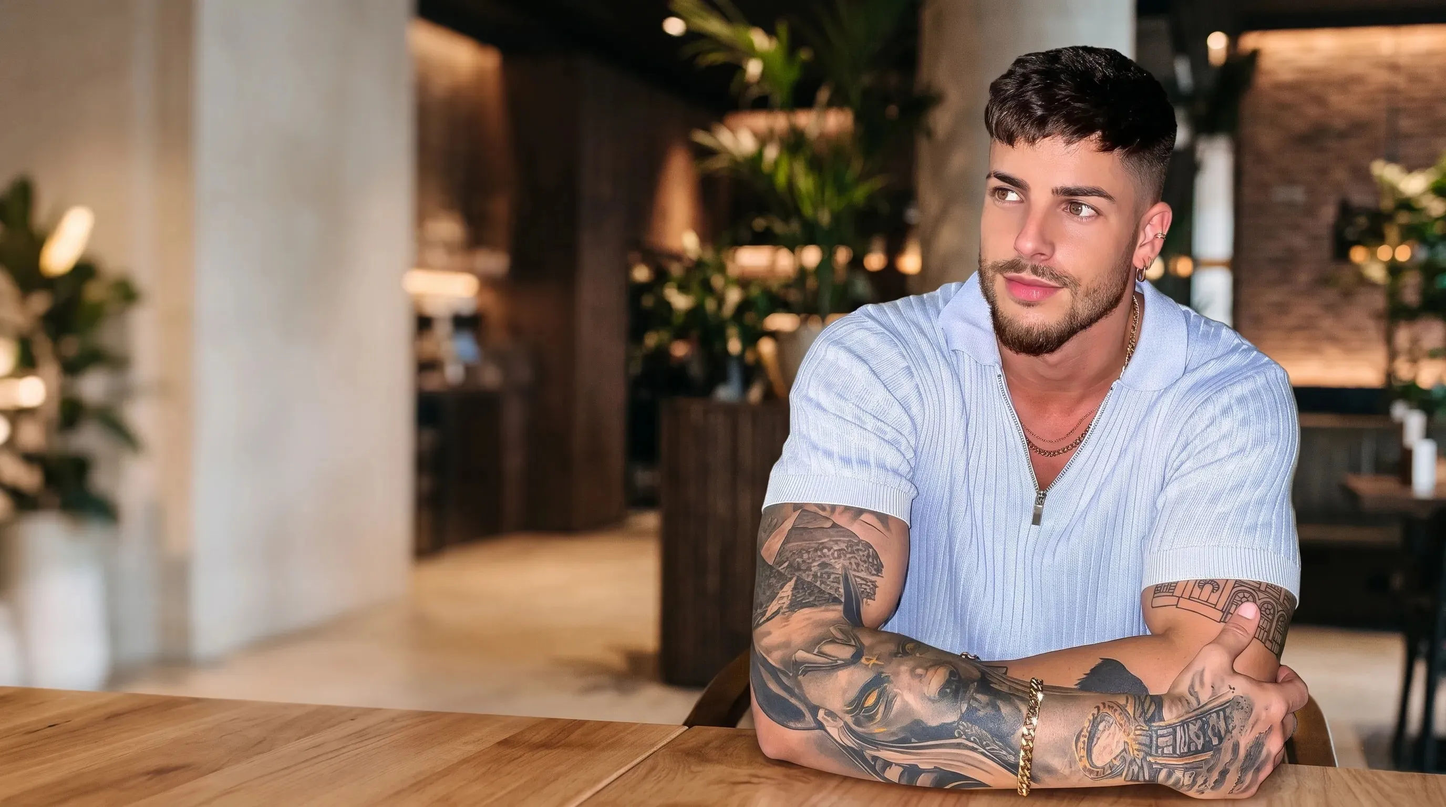
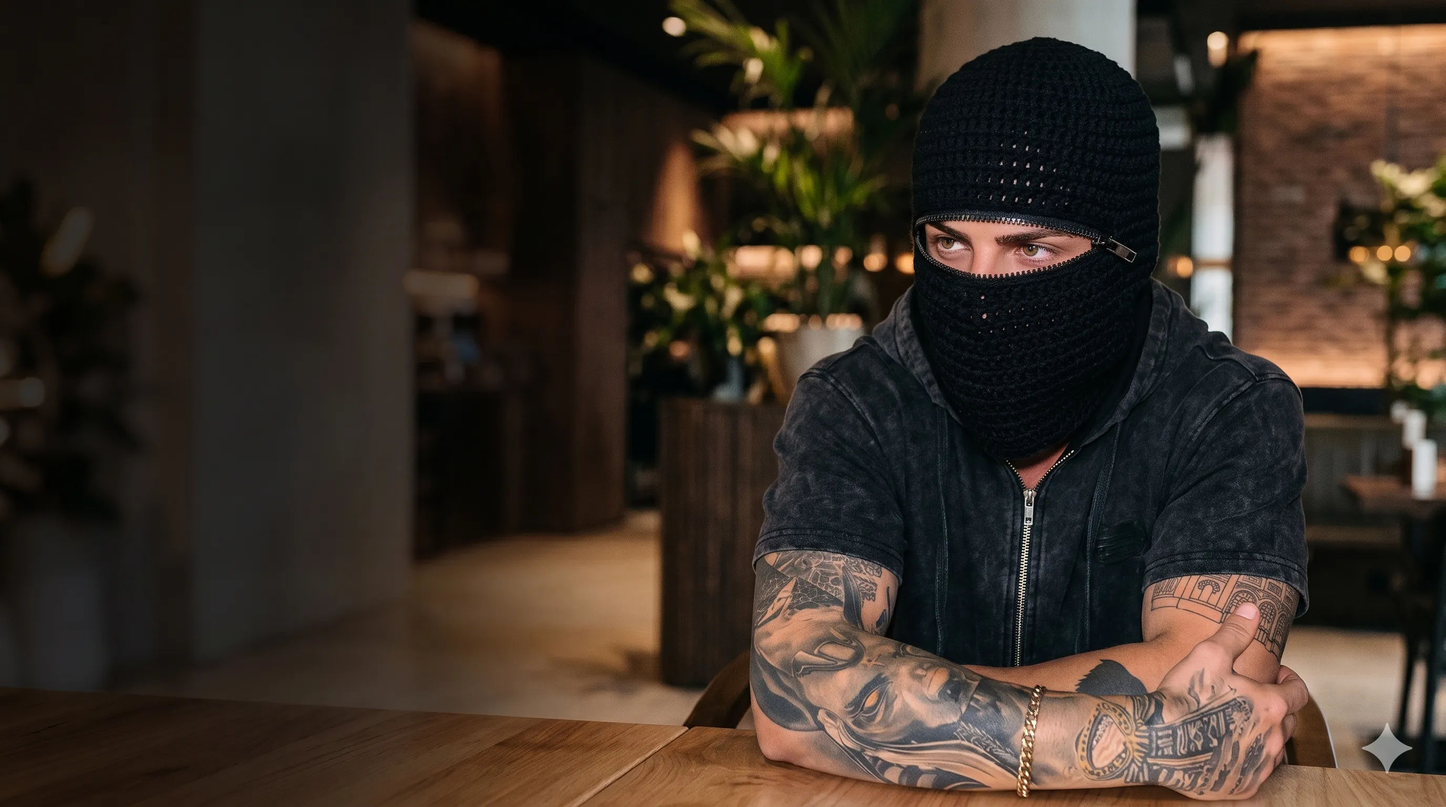
feat: replace hero image with official hero_image_madmonk asset

diff --git a/src/app/layout.tsx b/src/app/layout.tsx
@@ -53,7 +53,7 @@ export const metadata: Metadata = {
     siteName: siteConfig.brand.name,
     images: [
       {
-        url: "/placeholders/hero-tattoo.svg",
+        url: "/images/hero_image_madmonk.webp",
         width: 1200,
         height: 630,
         alt: `${siteConfig.brand.name} - Custom Tattoo Studio`,
@@ -64,7 +64,7 @@ export const metadata: Metadata = {
     card: "summary_large_image",
     title: siteConfig.seo.title,
     description: siteConfig.seo.description,
-    images: ["/placeholders/hero-tattoo.svg"],
+    images: ["/images/hero_image_madmonk.webp"],
     creator: siteConfig.contact.instagram,
   },
   icons: {
@@ -82,7 +82,7 @@ export default function RootLayout({
     "@context": "https://schema.org",
     "@type": "TattooParlor",
     "name": siteConfig.brand.name,
-    "image": `${siteConfig.seo.canonicalUrl}/placeholders/hero-tattoo.svg`,
+    "image": `${siteConfig.seo.canonicalUrl}/images/hero_image_madmonk.webp`,
     "description": siteConfig.seo.description,
     "telephone": siteConfig.contact.phone,
     "priceRange": "$$",

diff --git a/src/data/images.ts b/src/data/images.ts
@@ -27,7 +27,7 @@ export const images = {
     height: 200,
   },
   hero: {
-    src: "/images/hero.webp",
+    src: "/images/hero_image_madmonk.webp",
     alt: "Mad Monk Tattoo Studio - Custom Tattoo Art & Sanctuary",
     width: 2752,
     height: 1536,
